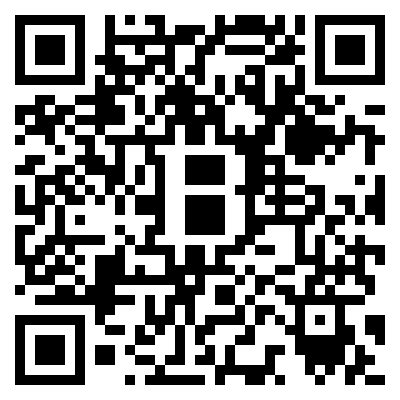
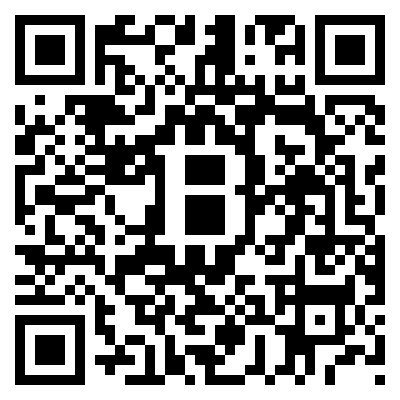
update donation address

Changed region(s): [[0.03, 0.03, 0.96, 0.96], [0.24, 0.03, 0.33, 0.24], [0.54, 0.63, 0.6, 0.66]]

diff --git a/public/index.html b/public/index.html
@@ -137,11 +137,11 @@
 
       <div class="donate">
         <span title="Thank you! ♥">Donate: </span>
-        <a href="bitcoin:1JNHNJftiWu57UVpp2cjrNNHCeLwbNy3Zt?message=utxo-stats.com">
+        <a href="bitcoin:15KDN6U7TkGub1pYEMKewMgXGQzoQSdHyQ?message=utxo-stats.com">
           <div class="qr-code">
             <img src="img/qr-code.png">
           </div>
-          <span>1JNHNJftiWu57UVpp2cjrNNHCeLwbNy3Zt</span>
+          <span>15KDN6U7TkGub1pYEMKewMgXGQzoQSdHyQ</span>
         </a>
       </div>
 
